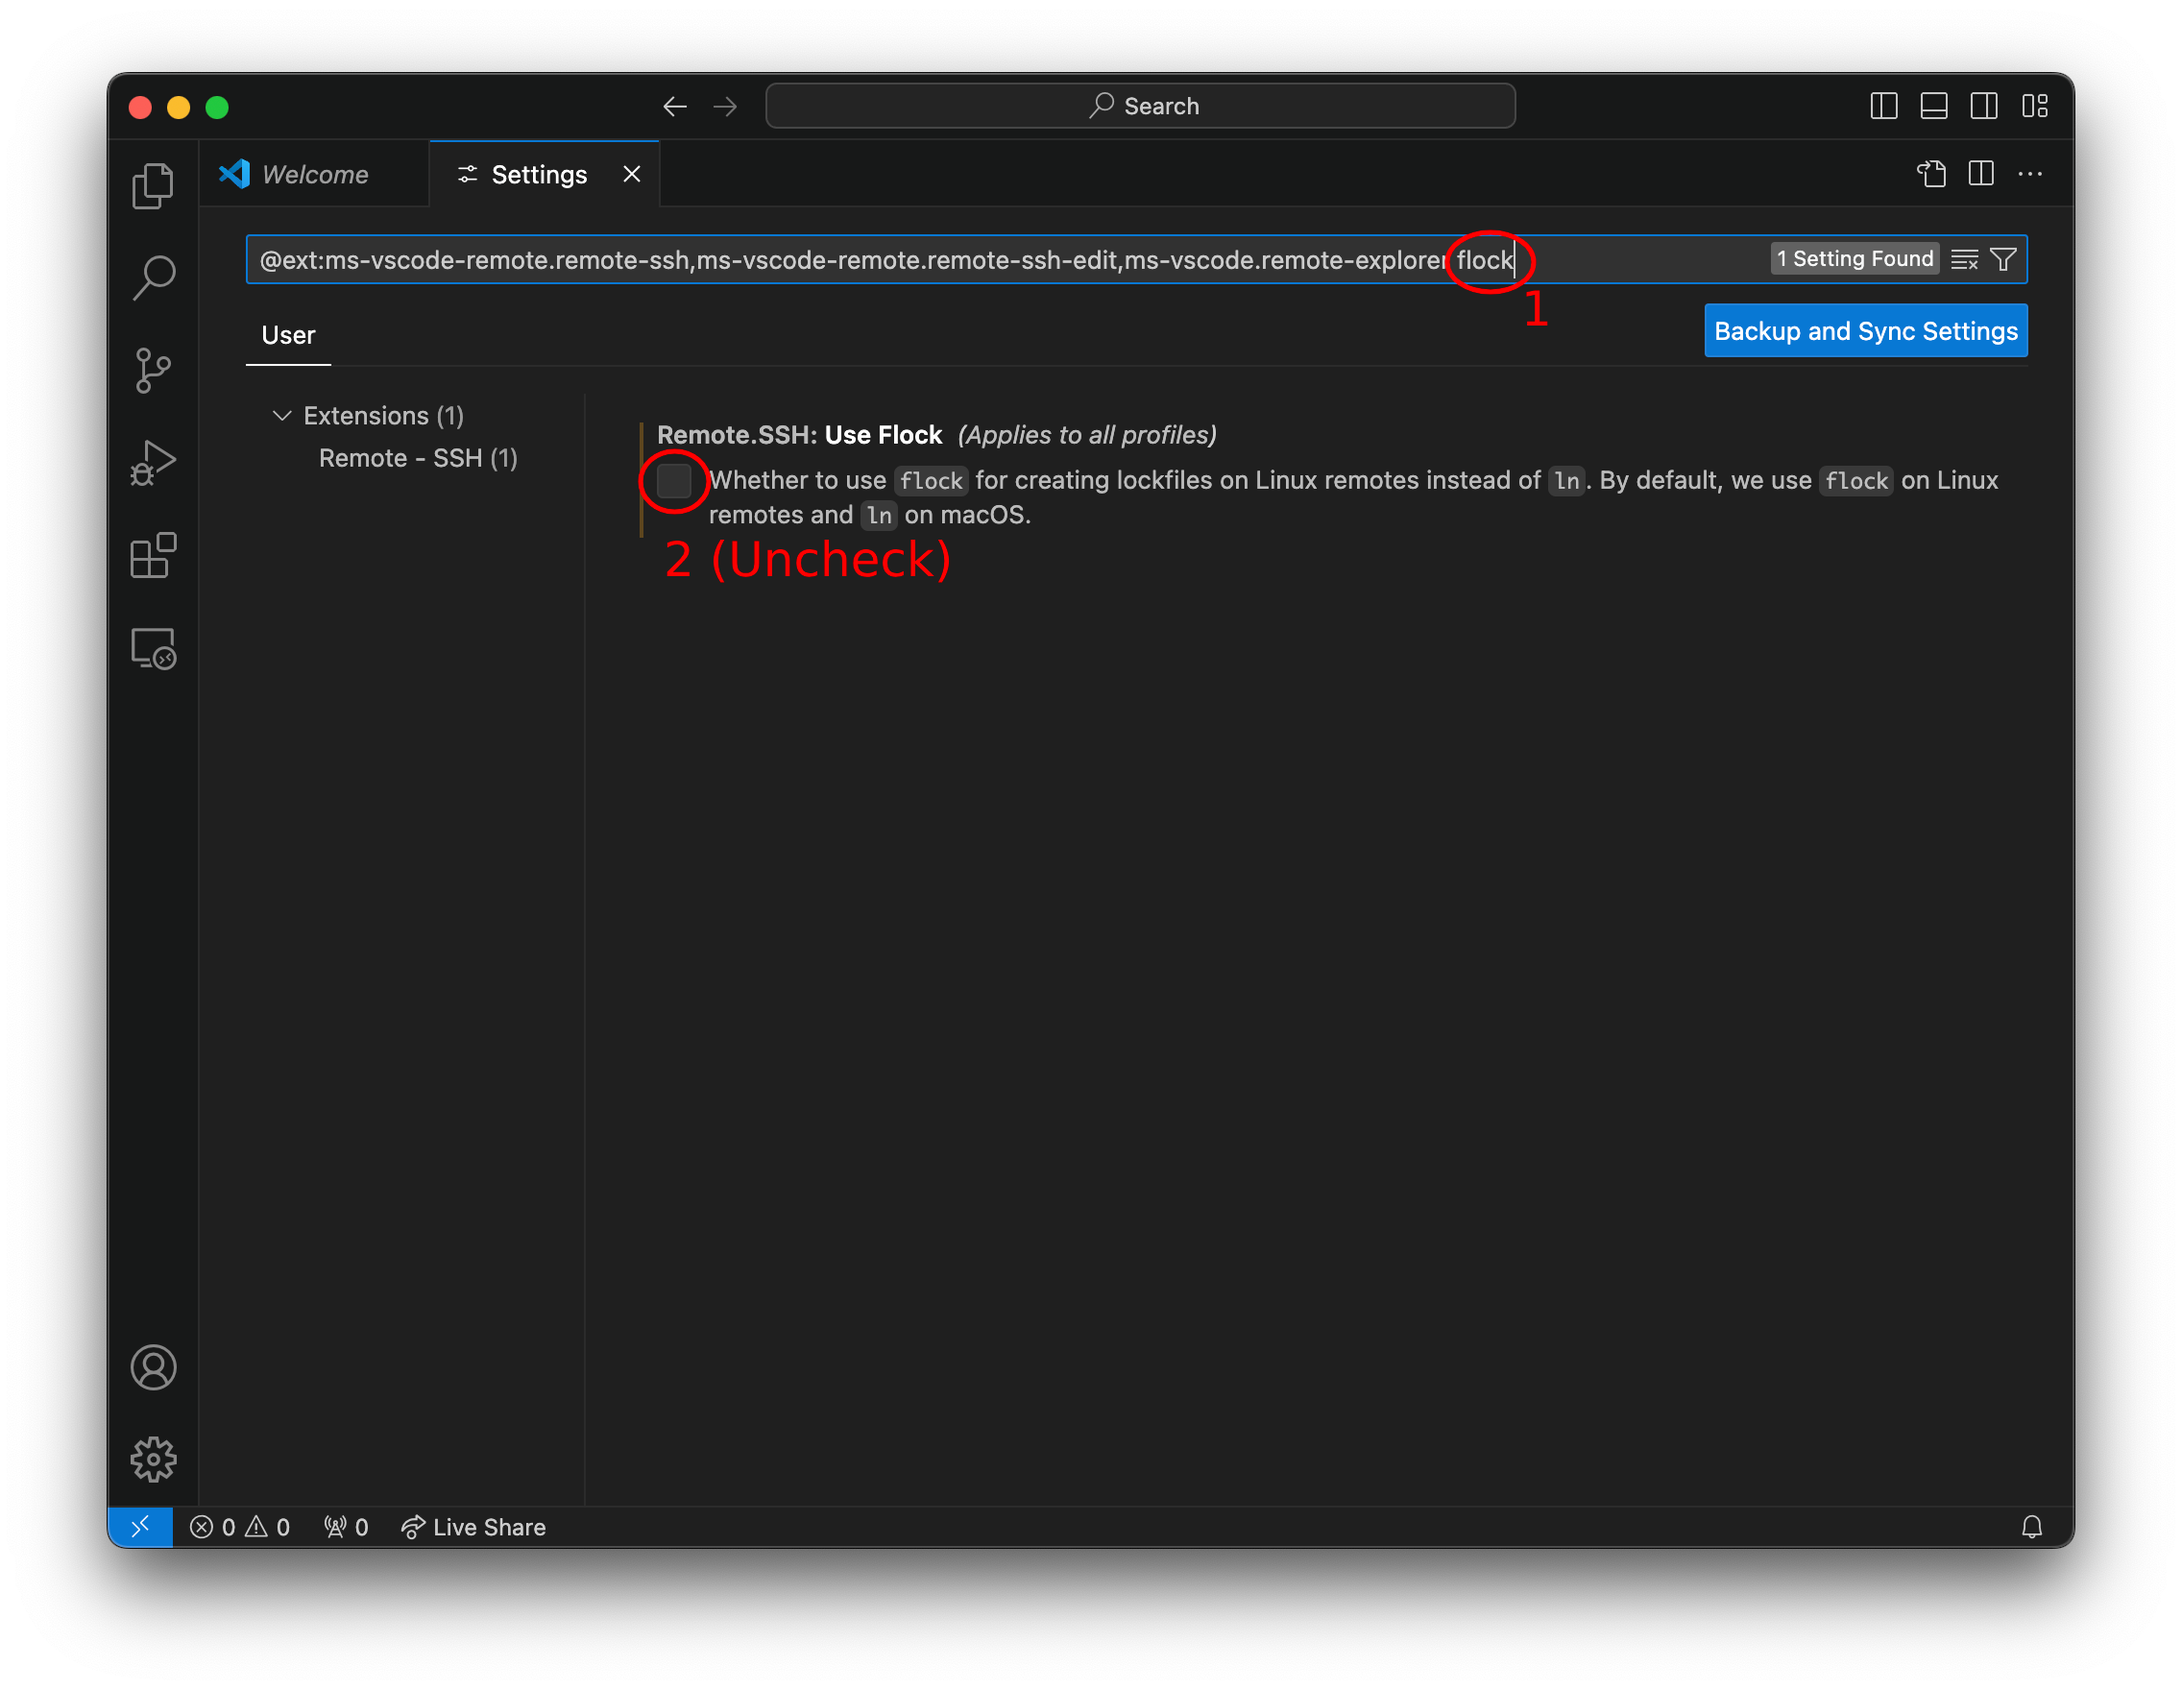
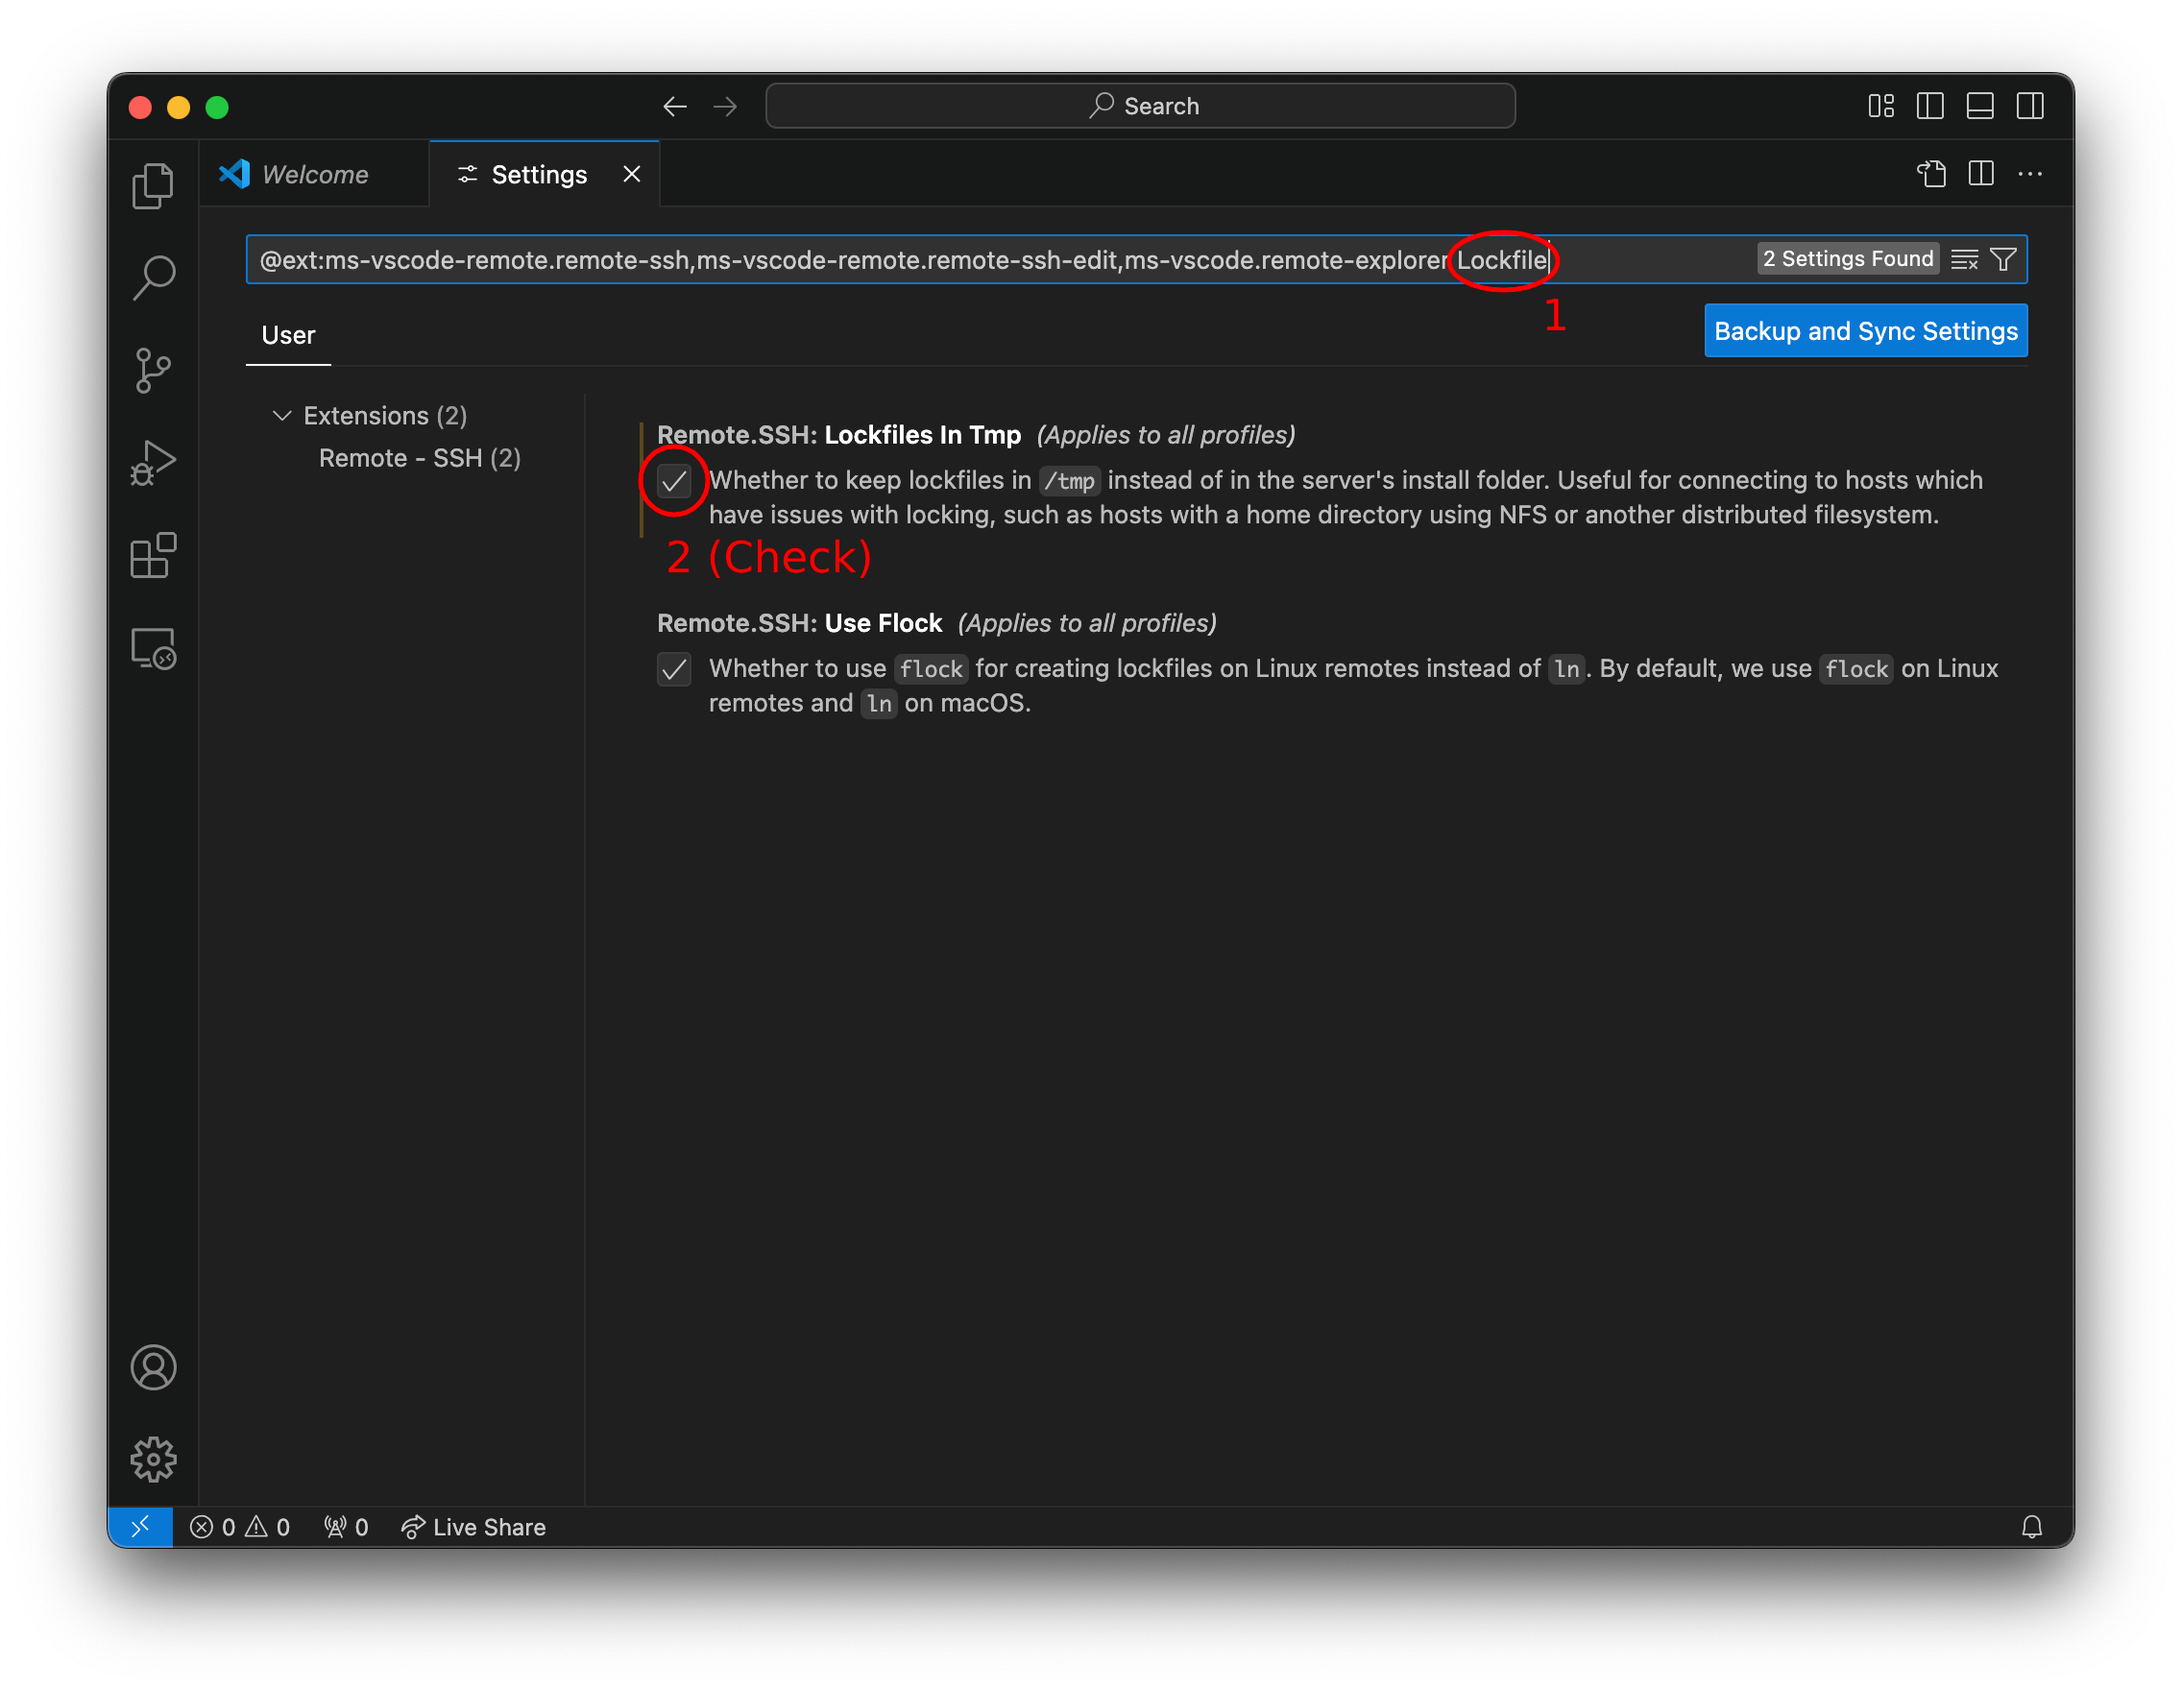
Better troubleshooting

diff --git a/docs/setup_remotessh.md b/docs/setup_remotessh.md
@@ -40,7 +40,7 @@ Search for "Exec Server" and disable the "Use Exec Server" option.
 
 <img src="images/remotessh_02.png" width="768px" />
 
-Search for "Flock" and disable the "Use Flock" option.
+Search for "Lockfile" and enable the "Lockfiles in Tmp" option.
 
 <img src="images/remotessh_11.png" width="768px" />
 
@@ -107,13 +107,13 @@ Now you should be able to work on CAEN!
 
 
 ## Troubleshooting
-If you are suddenly unable to connect, you can try deleting the VS Code server files. Sometimes the files that VS Code drops onto the remote host don't get cleaned up properly and it tries to reuse an unreachable remote server. SSH into CAEN and execute the following:
+If you are suddenly unable to connect, you can try killing the VS Code server and/or deleting its files. Sometimes the files that VS Code drops onto the remote host don't get cleaned up properly and it tries to reuse an unreachable remote server. SSH into CAEN and execute the following:
 
 ```console
-$ ssh armaanr@login.engin.umich.edu
+$ ssh armaanr@login-course.engin.umich.edu
 ...
-$ mv ~/.vscode-server ~/.vscode-old
-$ rm -rf ~/.vscode-old
+$ pkill -u $(id -u) -f vscode
+$ rm -rf ~/.vscode-server
 ```
 
 Restart VS Code on your own computer and [try again](#connect-to-caen).
